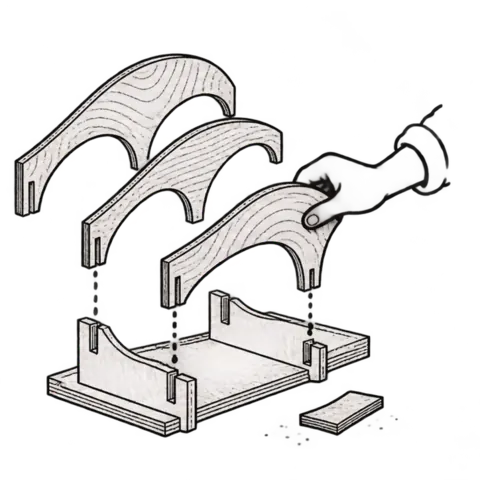
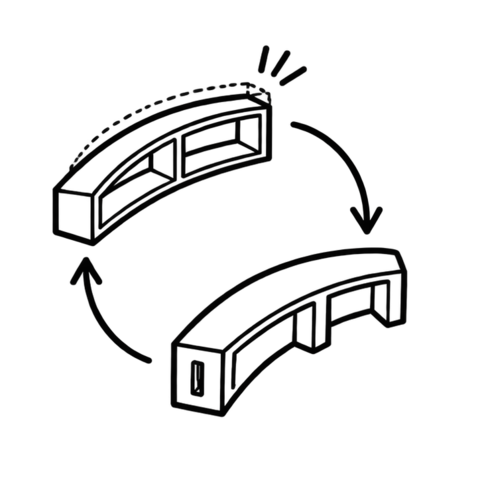
Pair the revised Thoughts copy with new illustrations

Changed region(s): [[0.0312, 0.0938, 0.9375, 0.9062], [0.625, 0.8125, 0.8125, 0.9062], [0.5312, 0.0938, 0.6562, 0.1875]]

diff --git a/05_Thoughts/index.html b/05_Thoughts/index.html
@@ -35,12 +35,12 @@
     
   </header>
   <div class="page-body"><section class="thoughts-story" aria-label="設計に対する考え"><div class="thoughts-stack" aria-label="3つの考えが積み重なるストーリー">
-<div class="thoughts-stack-stage"><header class="thoughts-story-opening"><p class="thoughts-kicker">DESIGN PHILOSOPHY</p><h2 lang="en">Digital Tools<br>to Expand What’s Possible</h2><p class="thoughts-opening-translation">デジタルを道具として、リアルの世界を豊かにする。</p><p>アイデアを形にし、試作で得た気づきを設計に戻す。<br>その繰り返しの中で、何を、誰とつくるかを問い直す。</p><span class="thoughts-story-scroll">SCROLL TO EXPLORE <span aria-hidden="true">↓</span></span></header>
+<div class="thoughts-stack-stage"><header class="thoughts-story-opening"><p class="thoughts-kicker">DESIGN PHILOSOPHY</p><h2 lang="en">Digital Tools<br>to Expand What’s Possible</h2><p class="thoughts-opening-translation">デジタルを道具として、リアルの世界を豊かにする。</p><p>どんな形があり得るか。どんなつくり方ができるか。そこに誰が関われるか。<br>デジタルの道具を使うことで、設計のなかで選べることを増やしたい。</p><span class="thoughts-story-scroll">SCROLL TO EXPLORE <span aria-hidden="true">↓</span></span></header>
 <div class="thoughts-stack-head"><span>THOUGHTS / DESIGN PHILOSOPHY</span><span class="thoughts-stack-count">01 — 03</span></div>
 <div class="thoughts-stack-deck">
-<article class="thoughts-stack-card" data-stack-card="0"><div class="thoughts-stack-card-head"><span>01 / FORM THE IDEA</span><span>Make</span></div><div class="thoughts-stack-card-copy"><h3><span>アイデアを、</span><br><span>試せる形に。</span></h3><img class="thoughts-stack-art" src="../assets/thoughts/technology.webp" alt="" width="480" height="480" decoding="async"><p>画像の濃淡を、パーテーションの羽根の角度に置き換える。<br>デジタルの道具で発想を操作できる形にすると、模様や空間の見え方を具体的に検討できる。</p></div></article>
-<article class="thoughts-stack-card" data-stack-card="1"><div class="thoughts-stack-card-head"><span>02 / SHORTEN THE LOOP</span><span>Run</span></div><div class="thoughts-stack-card-copy"><h3><span>つくった結果を、</span><br><span>次の設計へ。</span></h3><img class="thoughts-stack-art" src="../assets/thoughts/fabrication.webp" alt="" width="480" height="480" decoding="async"><p>デジタルファブリケーションで、設計と加工をデータでつなぐ。<br>部材を組んで得た気づきをモデルに戻し、すぐ次の試作へ。設計と試作の往復を短くする。</p></div></article>
-<article class="thoughts-stack-card" data-stack-card="2"><div class="thoughts-stack-card-head"><span>03 / DESIGN WITH PEOPLE</span><span>Rethink</span></div><div class="thoughts-stack-card-copy"><h3><span>誰がつくるかも、</span><br><span>問い直す。</span></h3><img class="thoughts-stack-art" src="../assets/thoughts/people.webp" alt="" width="480" height="480" decoding="async"><p>家具の組み立てに、使う人も加われるようにする。<br>使う人が、つくる人にもなる。その関わり方まで設計したい。</p></div></article>
+<article class="thoughts-stack-card" data-stack-card="0"><div class="thoughts-stack-card-head"><span>01 / THINK BY MAKING</span><span>Make</span></div><div class="thoughts-stack-card-copy"><h3><span>形にして、</span><br><span>考える。</span></h3><img class="thoughts-stack-art" src="../assets/thoughts/technology.webp" alt="" width="480" height="480" decoding="async"><p>アイデアを形にすると、頭の中だけでは見えなかったことが見えてくる。形にすることで、比べたり、変えたり、人と共有したりできる。つくること自体が、考える手がかりになる。</p></div></article>
+<article class="thoughts-stack-card" data-stack-card="1"><div class="thoughts-stack-card-head"><span>02 / SHORTEN THE LOOP</span><span>Run</span></div><div class="thoughts-stack-card-copy"><h3><span>試作の往復を、</span><br><span>短くする。</span></h3><img class="thoughts-stack-art" src="../assets/thoughts/fabrication.webp" alt="" width="480" height="480" decoding="async"><p>デジタルファブリケーションで、設計と加工をデータでつなぐ。つくって分かったことをモデルに戻し、次の試作にすぐ反映する。往復が短くなるほど、ひとつの案を早く決める前に、いくつもの可能性を試せる。</p></div></article>
+<article class="thoughts-stack-card" data-stack-card="2"><div class="thoughts-stack-card-head"><span>03 / QUESTION THE PREMISE</span><span>Rethink</span></div><div class="thoughts-stack-card-copy"><h3><span>何を、誰と、</span><br><span>なぜつくるか。</span></h3><img class="thoughts-stack-art" src="../assets/thoughts/people.webp" alt="" width="480" height="480" decoding="async"><p>つくる過程や、人が使う姿から、最初に置いた前提が変わることがある。誰のためのものか。誰がつくる過程に関われるか。その問いを見直すと、次につくるものも変わる。</p></div></article>
 </div>
 <div class="thoughts-stack-outro"><span>DESIGN IS AN ONGOING PROCESS.</span><strong>考え、試し、<br>つくり続ける。</strong><a href="../02_Works/index.html">作品を見る ↗</a></div>
 <div class="thoughts-stack-scroll" aria-hidden="true"><span>SCROLL TO STACK</span><span class="thoughts-stack-track"><span></span></span></div>

diff --git a/assets/rounded.css b/assets/rounded.css
@@ -879,3 +879,12 @@ html.design-rounded .thoughts-stack.is-animated .thoughts-story-opening {
   .design-rounded .thoughts-stack.is-animated .thoughts-stack-card-copy h3 {grid-row:2}
   .design-rounded .thoughts-stack.is-animated .thoughts-stack-card-copy p {grid-row:3}
 }
+@media (max-width:360px) {
+  html.design-rounded .thoughts-stack .thoughts-story-opening > p br {display:none}
+  .design-rounded .thoughts-stack.is-animated .thoughts-story-scroll {margin-top:8px}
+}
+@media (max-width:360px) and (max-height:640px) {
+  .design-rounded .thoughts-stack.is-animated .thoughts-stack-card {--stack-large-title:20px}
+  .design-rounded .thoughts-stack.is-animated .thoughts-stack-card-copy {--stack-art-size:56px}
+  .design-rounded .thoughts-stack.is-animated .thoughts-stack-card p {line-height:1.55;margin-top:calc(7px * var(--stack-body,0))}
+}

diff --git a/scripts/build.py b/scripts/build.py
@@ -641,12 +641,12 @@ def redirect_page(target: str, title: str, canonical: str) -> str:
 def thoughts_page(data: dict) -> str:
     file = "05_Thoughts/index.html"
     inner = """<section class="thoughts-story" aria-label="設計に対する考え"><div class="thoughts-stack" aria-label="3つの考えが積み重なるストーリー">
-<div class="thoughts-stack-stage"><header class="thoughts-story-opening"><p class="thoughts-kicker">DESIGN PHILOSOPHY</p><h2 lang="en">Digital Tools<br>to Expand What’s Possible</h2><p class="thoughts-opening-translation">デジタルを道具として、リアルの世界を豊かにする。</p><p>アイデアを形にし、試作で得た気づきを設計に戻す。<br>その繰り返しの中で、何を、誰とつくるかを問い直す。</p><span class="thoughts-story-scroll">SCROLL TO EXPLORE <span aria-hidden="true">↓</span></span></header>
+<div class="thoughts-stack-stage"><header class="thoughts-story-opening"><p class="thoughts-kicker">DESIGN PHILOSOPHY</p><h2 lang="en">Digital Tools<br>to Expand What’s Possible</h2><p class="thoughts-opening-translation">デジタルを道具として、リアルの世界を豊かにする。</p><p>どんな形があり得るか。どんなつくり方ができるか。そこに誰が関われるか。<br>デジタルの道具を使うことで、設計のなかで選べることを増やしたい。</p><span class="thoughts-story-scroll">SCROLL TO EXPLORE <span aria-hidden="true">↓</span></span></header>
 <div class="thoughts-stack-head"><span>THOUGHTS / DESIGN PHILOSOPHY</span><span class="thoughts-stack-count">01 — 03</span></div>
 <div class="thoughts-stack-deck">
-<article class="thoughts-stack-card" data-stack-card="0"><div class="thoughts-stack-card-head"><span>01 / FORM THE IDEA</span><span>Make</span></div><div class="thoughts-stack-card-copy"><h3><span>アイデアを、</span><br><span>試せる形に。</span></h3><img class="thoughts-stack-art" src="../assets/thoughts/technology.webp" alt="" width="480" height="480" decoding="async"><p>画像の濃淡を、パーテーションの羽根の角度に置き換える。<br>デジタルの道具で発想を操作できる形にすると、模様や空間の見え方を具体的に検討できる。</p></div></article>
-<article class="thoughts-stack-card" data-stack-card="1"><div class="thoughts-stack-card-head"><span>02 / SHORTEN THE LOOP</span><span>Run</span></div><div class="thoughts-stack-card-copy"><h3><span>つくった結果を、</span><br><span>次の設計へ。</span></h3><img class="thoughts-stack-art" src="../assets/thoughts/fabrication.webp" alt="" width="480" height="480" decoding="async"><p>デジタルファブリケーションで、設計と加工をデータでつなぐ。<br>部材を組んで得た気づきをモデルに戻し、すぐ次の試作へ。設計と試作の往復を短くする。</p></div></article>
-<article class="thoughts-stack-card" data-stack-card="2"><div class="thoughts-stack-card-head"><span>03 / DESIGN WITH PEOPLE</span><span>Rethink</span></div><div class="thoughts-stack-card-copy"><h3><span>誰がつくるかも、</span><br><span>問い直す。</span></h3><img class="thoughts-stack-art" src="../assets/thoughts/people.webp" alt="" width="480" height="480" decoding="async"><p>家具の組み立てに、使う人も加われるようにする。<br>使う人が、つくる人にもなる。その関わり方まで設計したい。</p></div></article>
+<article class="thoughts-stack-card" data-stack-card="0"><div class="thoughts-stack-card-head"><span>01 / THINK BY MAKING</span><span>Make</span></div><div class="thoughts-stack-card-copy"><h3><span>形にして、</span><br><span>考える。</span></h3><img class="thoughts-stack-art" src="../assets/thoughts/technology.webp" alt="" width="480" height="480" decoding="async"><p>アイデアを形にすると、頭の中だけでは見えなかったことが見えてくる。形にすることで、比べたり、変えたり、人と共有したりできる。つくること自体が、考える手がかりになる。</p></div></article>
+<article class="thoughts-stack-card" data-stack-card="1"><div class="thoughts-stack-card-head"><span>02 / SHORTEN THE LOOP</span><span>Run</span></div><div class="thoughts-stack-card-copy"><h3><span>試作の往復を、</span><br><span>短くする。</span></h3><img class="thoughts-stack-art" src="../assets/thoughts/fabrication.webp" alt="" width="480" height="480" decoding="async"><p>デジタルファブリケーションで、設計と加工をデータでつなぐ。つくって分かったことをモデルに戻し、次の試作にすぐ反映する。往復が短くなるほど、ひとつの案を早く決める前に、いくつもの可能性を試せる。</p></div></article>
+<article class="thoughts-stack-card" data-stack-card="2"><div class="thoughts-stack-card-head"><span>03 / QUESTION THE PREMISE</span><span>Rethink</span></div><div class="thoughts-stack-card-copy"><h3><span>何を、誰と、</span><br><span>なぜつくるか。</span></h3><img class="thoughts-stack-art" src="../assets/thoughts/people.webp" alt="" width="480" height="480" decoding="async"><p>つくる過程や、人が使う姿から、最初に置いた前提が変わることがある。誰のためのものか。誰がつくる過程に関われるか。その問いを見直すと、次につくるものも変わる。</p></div></article>
 </div>
 <div class="thoughts-stack-outro"><span>DESIGN IS AN ONGOING PROCESS.</span><strong>考え、試し、<br>つくり続ける。</strong><a href="../02_Works/index.html">作品を見る ↗</a></div>
 <div class="thoughts-stack-scroll" aria-hidden="true"><span>SCROLL TO STACK</span><span class="thoughts-stack-track"><span></span></span></div>
